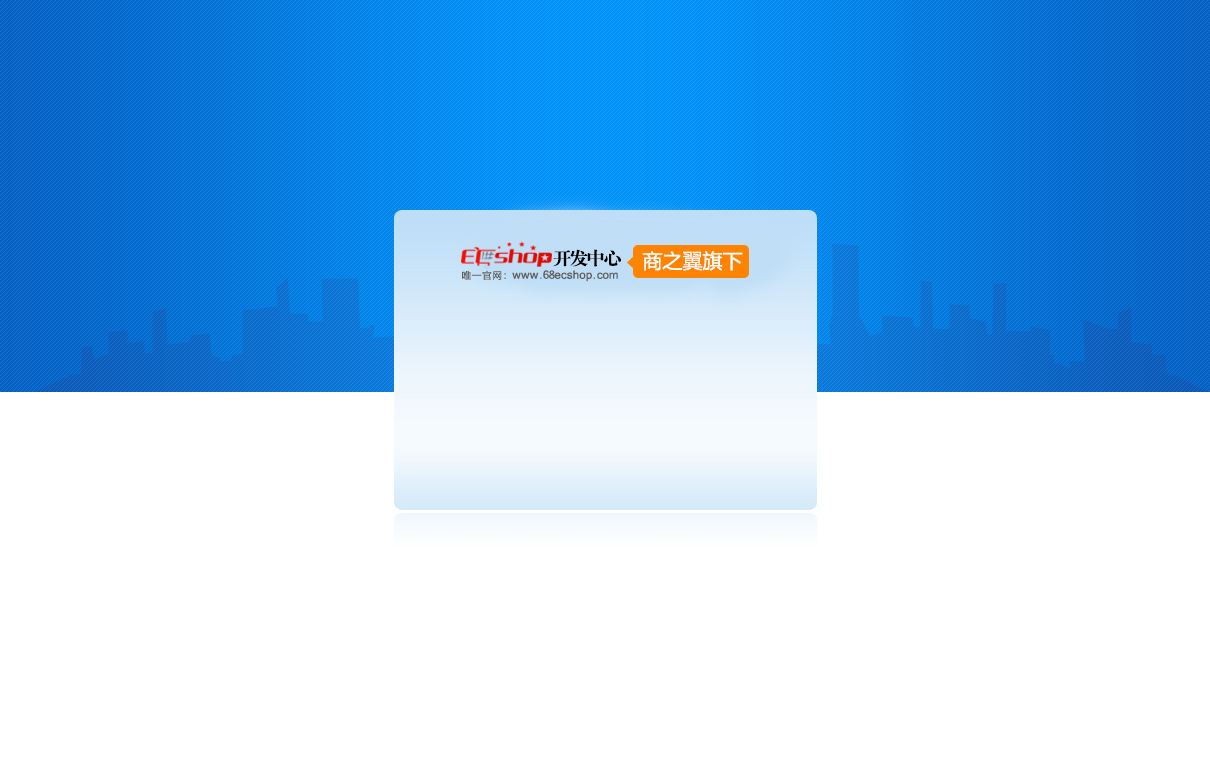
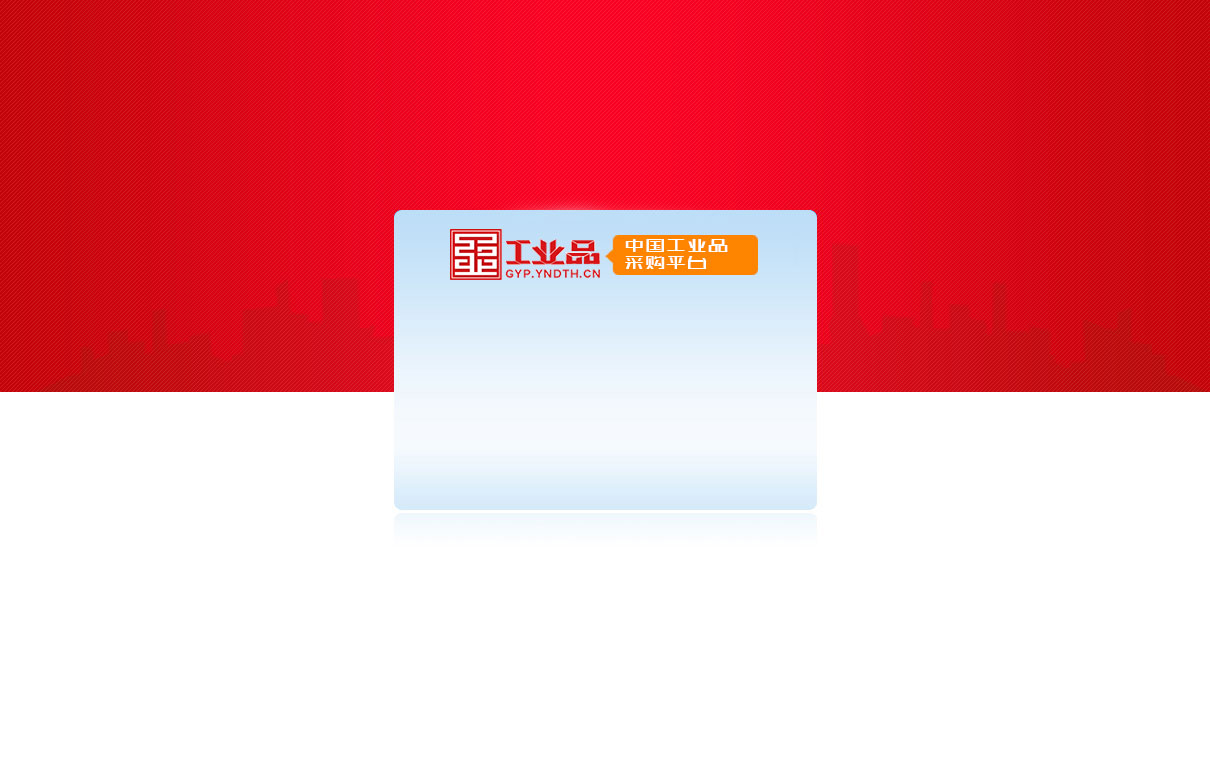
update login regeist page images

diff --git a/themes/68ecshopcom_360buy/css/passport.css b/themes/68ecshopcom_360buy/css/passport.css
@@ -297,7 +297,7 @@
     position: absolute;
     background: url(../images/registerPic.jpg) no-repeat 0;
     width: 605px;
-    height: 430px;
+    height: 540px;
     left: 0;
     top: 0;
 }
